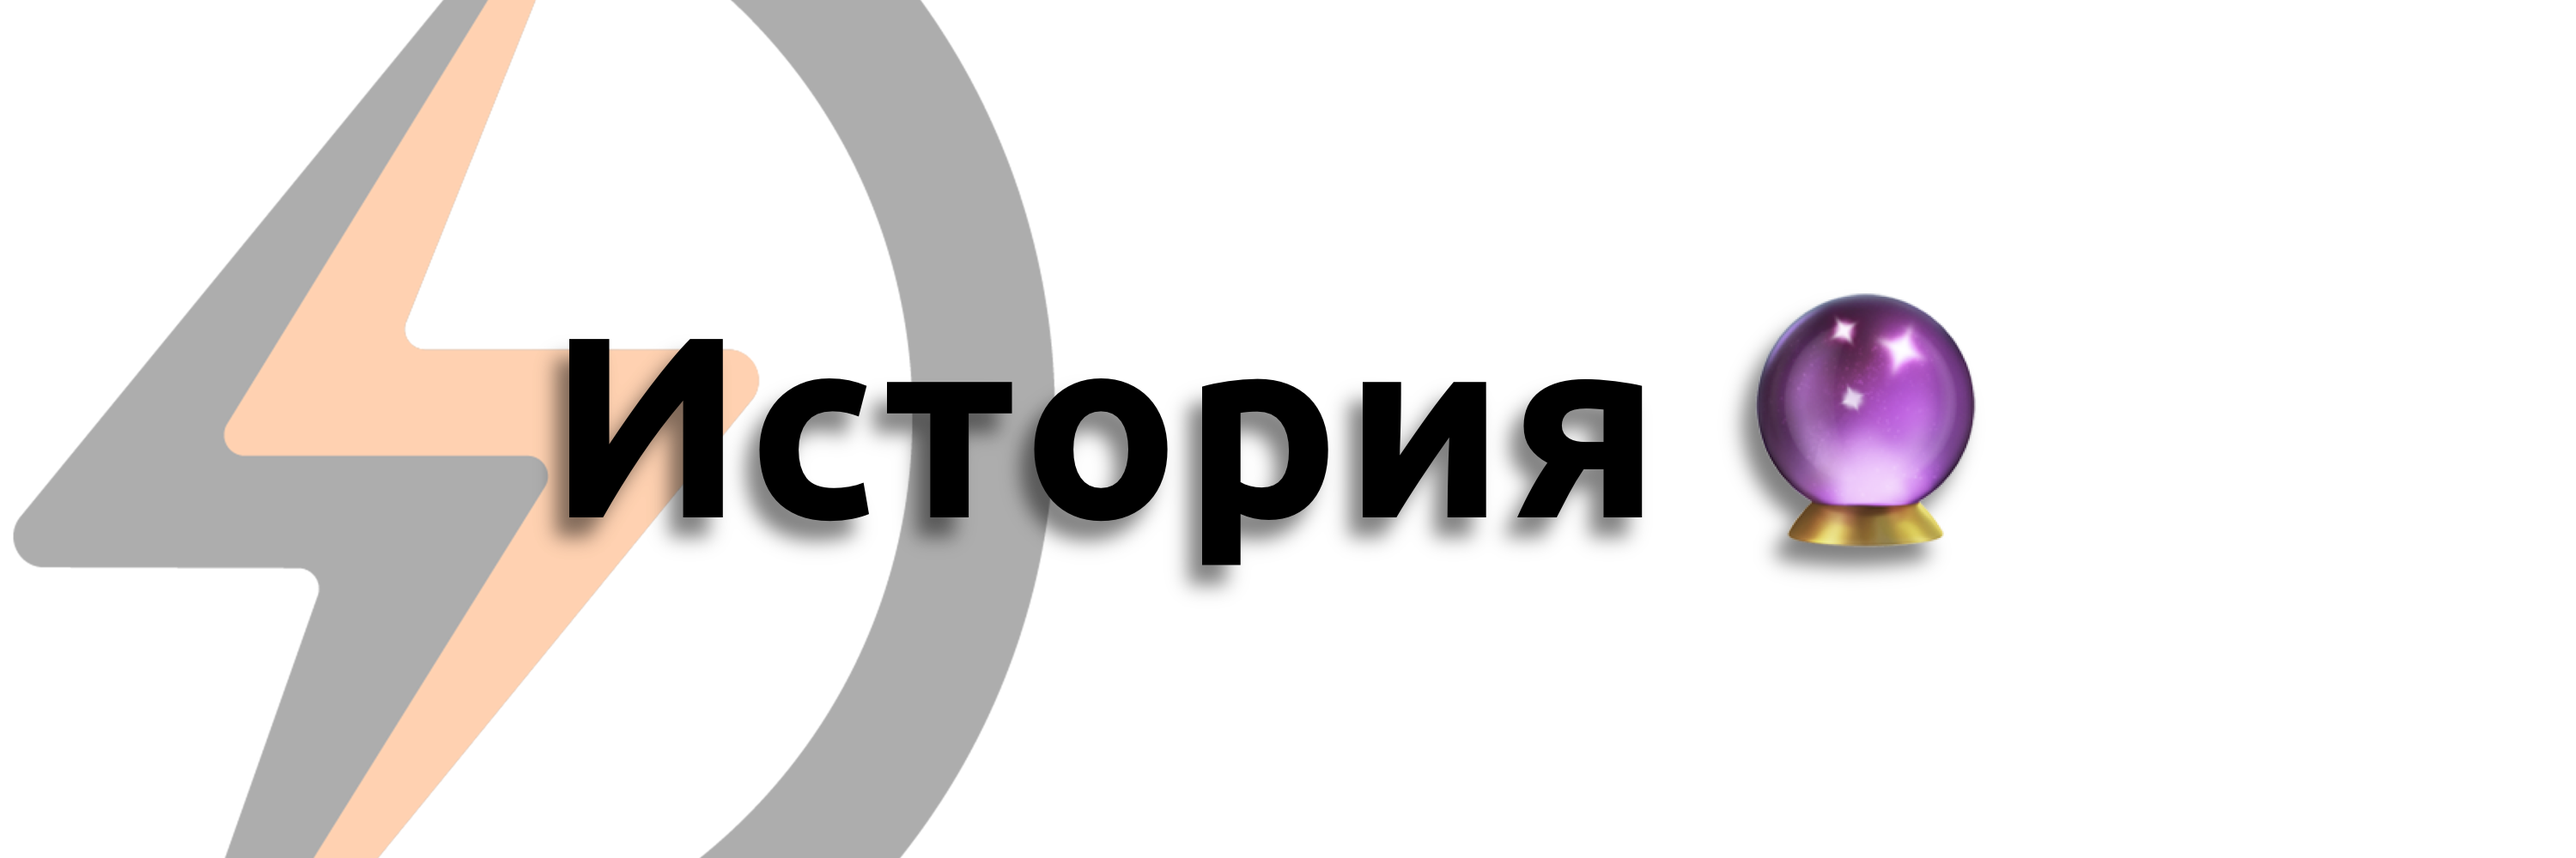
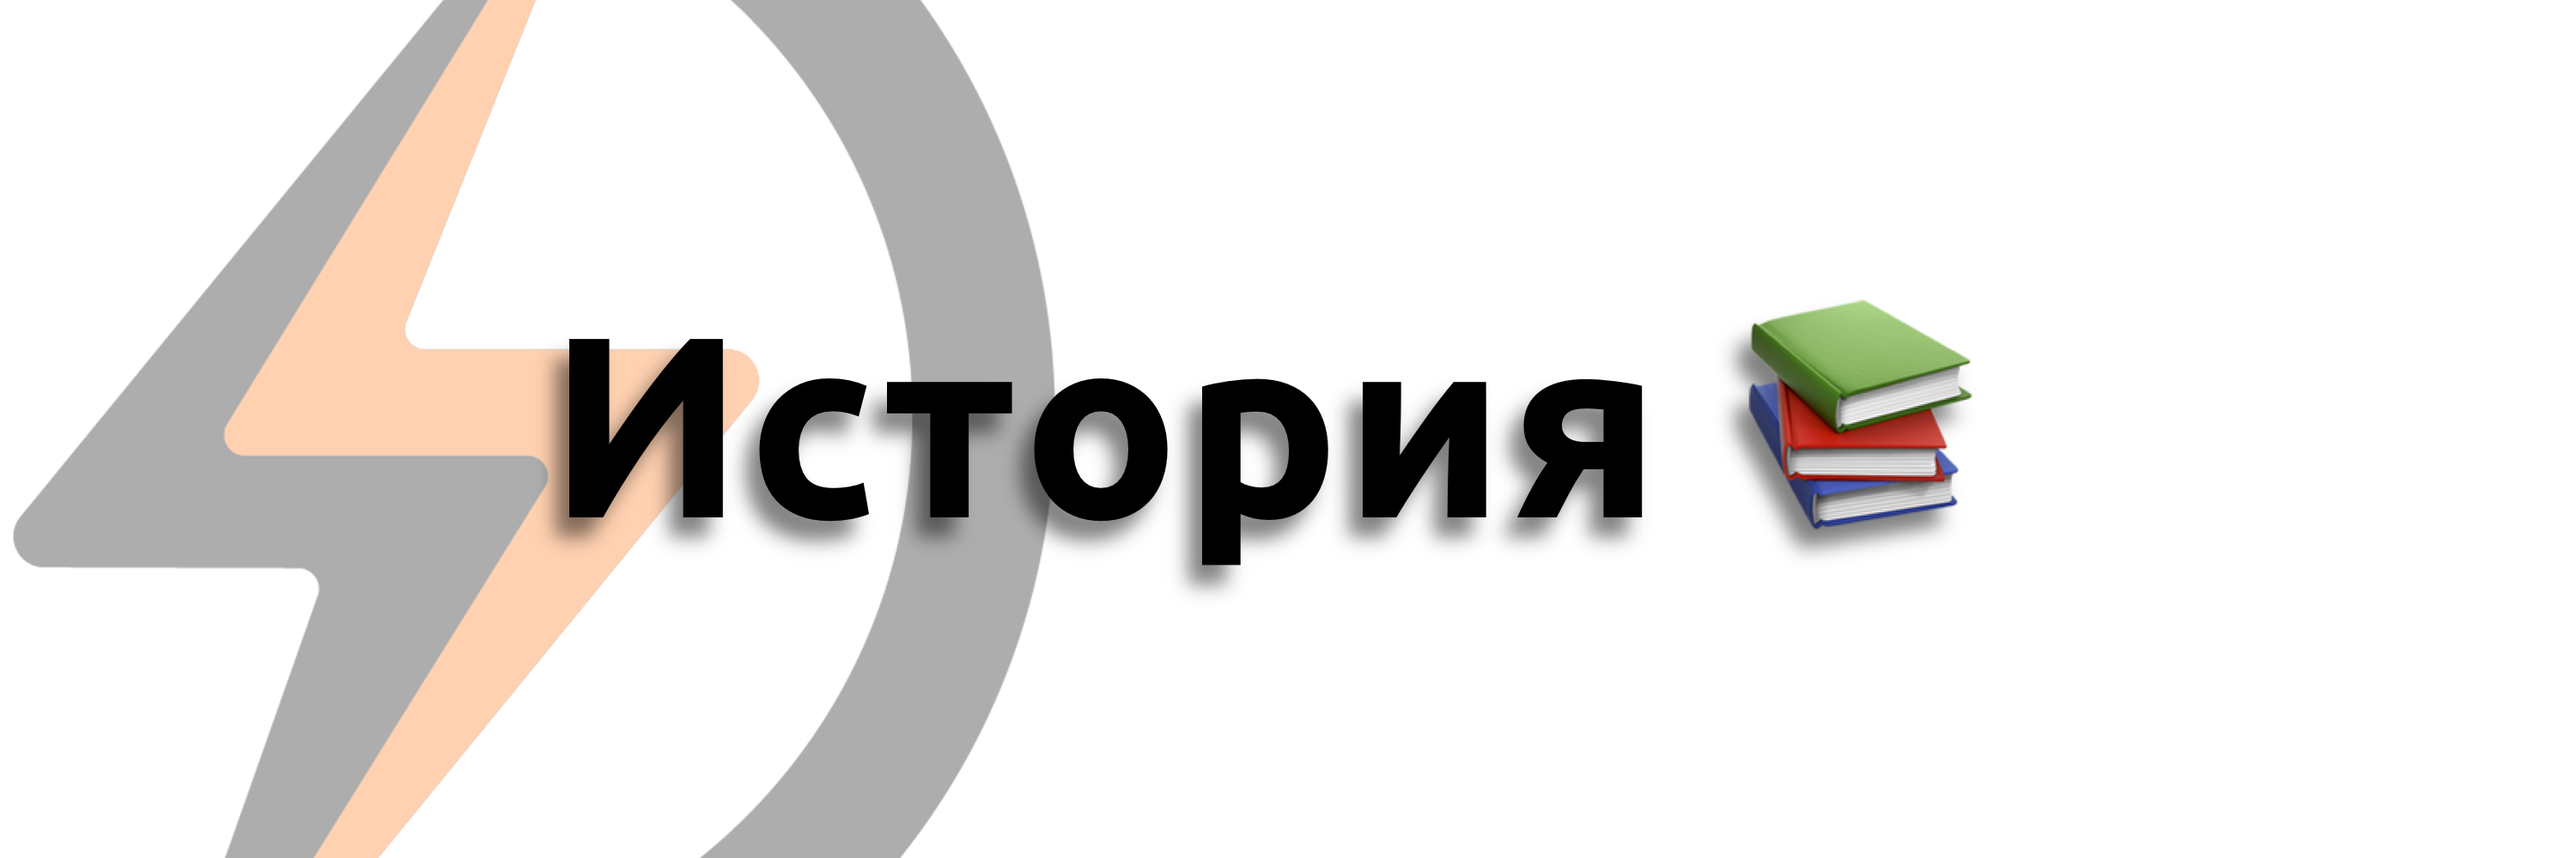
added en section covers

Changed region(s): [[0.651, 0.341, 0.775, 0.682]]

diff --git a/content.en/docs/Theory/economics/_index.md b/content.en/docs/Theory/economics/_index.md
@@ -1,6 +1,8 @@
 ---
 title: "Economics"
-h1: "Economics"
+h1: " "
+cover: /img/main-section/en/economics-dark.png
+coverDark: /img/main-section/en/economics-light.png
 bookCollapseSection: true
 url: economics
 weight: 1
@@ -16,21 +18,37 @@ A section devoted to the economic aspects of Bitcoin.
 The series will cover all the major economic, social and technological components of Bitcoin, as well as dispel the major misconceptions associated with it.
 
 1. [Gradually, Then Suddenly: Intro](/en/gradually-then-suddenly/intro)
+
 2. [Bitcoin Can’t Be Copied](/en/gradually-then-suddenly/bitcoin-cant-be-copied)
+
 3. [Bitcoin Is Not Too Volatile](/en/gradually-then-suddenly/bitcoin-is-not-too-volatile)
+
 4. [Bitcoin Does Not Waste Energy](/en/gradually-then-suddenly/bitcoin-does-not-waste-energy)
+
 5. [Bitcoin is Not Too Slow](/en/gradually-then-suddenly/bitcoin-is-not-too-slow)
+
 6. [Bitcoin Fixes This](/en/gradually-then-suddenly/bitcoin-fixes-this)
+
 7. [Bitcoin, Not Blockchain](/en/gradually-then-suddenly/bitcoin-not-blockchain)
+
 8. [Bitcoin is Not Backed by Nothing](/en/gradually-then-suddenly/bitcoin-is-not-backed-by-nothing)
+
 9. [Bitcoin is Not a Pyramid Scheme](/en/gradually-then-suddenly/bitcoin-is-not-a-pyramid-scheme)
+
 10. [Bitcoin Cannot be Banned](/en/gradually-then-suddenly/bitcoin-cannot-be-banned)
+
 11. [Bitcoin is Not for Criminals](/en/gradually-then-suddenly/bitcoin-is-not-for-criminals)
+
 12. [Bitcoin Obsoletes All Other Money](/en/gradually-then-suddenly/bitcoin-obsoletes-all-other-money)
+
 13. [Bitcoin is a Rally Cry](/en/gradually-then-suddenly/bitcoin-is-a-rally-cry)
+
 14. [Bitcoin is Common Sense](/en/gradually-then-suddenly/bitcoin-is-common-sense)
+
 15. [Bitcoin is Antifragile](/en/gradually-then-suddenly/bitcoin-is-antifragile)
+
 16. [Bitcoin is One for All](/en/gradually-then-suddenly/bitcoin-is-one-for-all)
+
 17. [Bitcoin is the Great Definancialization](/en/gradually-then-suddenly/bitcoin-is-the-great-definancialization)
 
 {{< /expand >}}
@@ -40,12 +58,19 @@ The series will cover all the major economic, social and technological component
 Welcome to the introduction to a series of seven articles, entitled “Discovering Bitcoin: A Brief Overview From Cavemen to the Lightning Network.”
 
 1. [Introduction](/en/discovering-bitcoin/intro)
+
 2. [Part 1: About Time](/en/discovering-bitcoin/about-time)
+
 3. [Part 2: About People](/en/discovering-bitcoin/about-people)
+
 4. [Part 3: Introducing Money](/en/discovering-bitcoin/introducing-money)
+
 5. [Part 4: A Wrong Turn (New Plan Needed)!](/en/discovering-bitcoin/a-wrong-turn-new-plan-needed)
+
 6. [Part 5: Digital Scarcity](/en/discovering-bitcoin/digital-scarcity)
+
 7. [Part 6: Digital Contracts](/en/discovering-bitcoin/digital-contracts)
+
 8. [Part 7: The Missing Pieces](/en/discovering-bitcoin/the-missing-pieces)
 
 {{< /expand >}}
@@ -53,17 +78,31 @@ Welcome to the introduction to a series of seven articles, entitled “Discoveri
 ## Articles
 
 - [Critics Claim Bitcoin Is a Threat to the Environment. They're Wrong](/en/bitcoin-is-not-harmful-for-the-environment)
+
 - [The Seven Network Effects of Bitcoin](/en/seven-network-effects-of-bitcoin)
+
 - [Masters and Slaves of Money](/en/masters-and-slaves-of-money)
+
 - [Structural Adjustment: How The IMF And World Bank Repress Poor Countries And Funnel Their Resources To Rich Ones](/en/structural-adjustment)
+
 - [What Most People Get Wrong About Deflation](/en/in-defense-of-deflation)
+
 - [Comparison of Monetary Standards](/en/comparison-of-monetary-standards)
+
 - [Petrodollar Negative Effects](/en/petrodollar-negative-effects)
+
 - [Shelling Out: The Origins of Money](/en/shelling-out)
+
 - [Bitcoin and the Rhythms of History](/en/bitcoin-rhythms-of-history)
+
 - [Bitcoin & the HOPF Cycle of the Internet](/en/bitcoin-and-the-hopf-cycle-of-the-internet)
+
 - [Money, blockchains, and social scalability](/en/money-blockchains-and-social-scalability)
+
 - [Что такое деньги](/chto-takoe-dengi)
+
 - [Only The Strong Survive](/en/only-the-strong-survive)
+
 - [Dollar-Cost Averaging](/en/dollar-cost-averaging)
+
 - [Jevons Paradox: Contrary Truth](/en/jevons-paradox)

diff --git a/content.en/docs/Theory/history/_index.md b/content.en/docs/Theory/history/_index.md
@@ -1,5 +1,8 @@
 ---
 title: "History"
+h1: " "
+cover: /img/main-section/en/history-dark.png
+coverDark: /img/main-section/en/history-light.png
 bookCollapseSection: true
 url: history
 weight: 5
@@ -16,10 +19,15 @@ A subsection devoted to historical events and the backstory of Bitcoin.
 This series tells the story of the crucial developments that took place before Bitcoin and laid the foundation for the emergence of censorship-resistant decentralized money that is beyond the control of states or any other centralized authority.
 
 1. [Intro: The Day Cryptography Changed Forever](/en/gf/genesis-intro)
+
 2. [Part I: How David Chaum’s eCash Spawned a Cypherpunk Dream](/en/gf/genesis-1)
+
 3. [Part II: Hashcash or How Adam Back Designed Bitcoin’s Motor Block](/en/gf/genesis-2)
+
 4. [Part III: If Bitcoin Had a First Draft, Wei Dai’s B-Money Was It](/en/gf/genesis-3)
+
 5. [Part IV: With Bit Gold, Szabo Was Inches Away From Inventing Bitcoin](/en/gf/genesis-4)
+
 6. [Part V: How Hal Finney’s Quest For Digital Cash Led To RPOW (And More)](/en/gf/genesis-5)
 
 {{< /expand >}}
@@ -27,13 +35,6 @@ This series tells the story of the crucial developments that took place before B
 ## Articles
 
 1. [Hal Finney — The Life And Death Of A Cypherpunk Legend](/en/hal-finney)
+
 2. [The Bitcoin Reformation](/en/bitcoin-reformation)
 
-
-# Календарь
-
-Помимо статей погрузиться в историю Биткоина вам поможет подготовленный нами Биткоин-календарь. Для удобства этот календарь раздается в самом распространенном формате, но вы всегда можете импортировать его, чтобы использовать в любом другом приложении.
-
-Предложить пропущенные мною или новые события можно в разделе сайта "[обратная связь](/feedback)".
-
-<iframe src="https://calendar.google.com/calendar/embed?height=600&wkst=2&bgcolor=%23ffffff&ctz=Europe%2FMoscow&showNav=1&showCalendars=0&showTabs=1&src=OTAxYmU1NjNjZmE4ZGQwYWIyM2IyZDNlMGIwNjJhMmU3ZDU0ZDg3MGI0ZjM0OTMzMDgyMTU0OGRjMmU4ZjMzNUBncm91cC5jYWxlbmRhci5nb29nbGUuY29t&color=%23F09300" style="border:solid 1px #777" width="600" height="600" frameborder="0" scrolling="no"></iframe> 

diff --git a/content.en/docs/Theory/security/_index.md b/content.en/docs/Theory/security/_index.md
@@ -1,5 +1,8 @@
 ---
 title: "Security"
+h1: " "
+cover: /img/main-section/en/security-dark.png
+coverDark: /img/main-section/en/security-light.png
 bookCollapseSection: true
 bookFlatSection: false
 url: security
@@ -9,10 +12,17 @@ weight: 2
 A section covering the best practices for securing your coins when interacting with Bitcoin.
 
 1. [Bitcoin Wallets: How, Why and When to Hold Your Own Private Keys](/en/how-to-hold-private-keys)
+
 2. [What is a bitcoin seed phrase and how does it work?](/en/seed/)
+
 3. [Ultimate guide to storing your bitcoin seed phrase backups](/en/seed-security)
+
 4. [Is your passphrase strong enough?](/en/passphrase)
+
 5. [What is multisig?](/en/what-is-multisig)
+
 6. [The best Bitcoin hardware wallets](/en/hwws/)
+
 7. [Multisig Series Part I: Why Multisig?](/en/multisig-1)
+
 8. [Multisig Series Part II: Single Keys are the Foundation of Multisignature](/en/multisig-2)

diff --git a/content.en/docs/Theory/lightning/_index.md b/content.en/docs/Theory/lightning/_index.md
@@ -1,5 +1,8 @@
 ---
 title: "Lightning"
+h1: " "
+cover: /img/main-section/en/lightning-dark.png
+coverDark: /img/main-section/en/lightning-light.png
 bookCollapseSection: true
 url: lightning
 weight: 8
@@ -7,10 +10,16 @@ weight: 8
 
 A subsection that tells you what the Lightning Network is and what its advantages are.
 
-1. [Что такое сеть Лайтнинг?](/chto-takoe-laitning)
+1. [What is Lightning Network?](/en/what-is-lightning-network)
+
 2. [Lightning Wallets](/en/lightning-wallets)
+
 2. [How Lightning Address Works](/en/how-lightning-address-works)
+
 3. [Current State of Lightning Network Privacy](/en/lightning-network-privacy)
+
 4. [OMG, LN nodes are running on Amazon!](/en/is-lightning-centralized)
+
 5. [Lightning Network Explained](/en/lightning-network-explained)
+
 6. [Solutions to inbound liquidity problem in Lightning Network](/en/inbound-liquidity-problem)

diff --git a/content.en/docs/Theory/privacy/_index.md b/content.en/docs/Theory/privacy/_index.md
@@ -1,5 +1,8 @@
 ---
 title: "Privacy"
+h1: " "
+cover: /img/main-section/en/privacy-dark.png
+coverDark: /img/main-section/en/privacy-light.png
 bookCollapseSection: true
 url: privacy
 weight: 3
@@ -8,9 +11,15 @@ weight: 3
 A section covering the best approaches to ensuring your own privacy when interacting with Bitcoin and the importance of privacy in general.
 
 1. [Bitcoin Privacy: Best Practices](/en/privacy/best-practices)
+
 2. [no-KYC only. Avoid the creep](/en/privacy/no-kyc)
+
 4. [Bitcoin Privacy](/en/wiki-bitcoin-privacy)
+
 5. [As Governments Seek Encryption Backdoors, Bitcoin Becomes Critical](/en/bitcoin-becomes-critical)
+
 6. [BIP47, the ugly duckling](/en/bip47-the-ugly-duckling)
+
 7. [Understanding Bitcoin Privacy with OXT](/en/privacy/oxt)
+
 8. [CoinJoin Overview](/en/privacy/coinjoin)

diff --git a/content.en/docs/Theory/future/_index.md b/content.en/docs/Theory/future/_index.md
@@ -1,5 +1,8 @@
 ---
 title: "Future"
+h1: " "
+cover: /img/main-section/en/future-dark.png
+coverDark: /img/main-section/en/future-light.png
 bookCollapseSection: true
 url: future
 weight: 7
@@ -8,6 +11,9 @@ weight: 7
 A subsection collecting materials devoted to speculation on what Bitcoin might look like in the future, how it might deal with upcoming threats, and how much its presence might change the lives of people on planet Earth and beyond.
 
 1. [Bitcoin Astronomy](/en/ba/) (trilogy)
+
 2. [Hey Bitcoin, Slow Down!](/en/hey-bitcoin-slow-down)
+
 3. [Can Bitcoin Survive An Apocalypse?](/en/apocalypse)
+
 4. [Bitcoin and Ocean Thermal Energy](/en/bitcoin-and-oceans)

diff --git a/content.en/docs/Practice/lightning/_index.md b/content.en/docs/Practice/lightning/_index.md
@@ -2,8 +2,8 @@
 title: "Lightning"
 type: docs
 h1: " "
-cover: /img/main-section/ru/lightning-light.png
-coverDark: /img/main-section/ru/lightning.png
+cover: /img/main-section/en/lightning-dark.png
+coverDark: /img/main-section/en/lightning-light.png
 bookCollapseSection: true
 url: practice/lightning
 weight: 6

diff --git a/content.en/docs/Rabbithole/_index.md b/content.en/docs/Rabbithole/_index.md
@@ -1,9 +1,11 @@
 ---
 title: "Rabbithole"
-bookCollapseSection: true
-url: rabbithole
 type: docs
-cover: /img/main-section/rabbithole-en.png
+h1: " "
+cover: /img/main-section/en/rabbithole-dark.png
+coverDark: /img/main-section/en/rabbithole-light.png
+url: rabbithole
+bookCollapseSection: true
 weight: 4
 ---
 

diff --git a/content.en/docs/Practice/interact/_index.md b/content.en/docs/Practice/interact/_index.md
@@ -2,8 +2,8 @@
 title: "Interact"
 type: docs
 h1: " "
-cover: /img/main-section/ru/interact-light-ru.png
-coverDark: /img/main-section/ru/interact.png
+cover: /img/main-section/en/interact-dark.png
+coverDark: /img/main-section/en/interact-light.png
 bookCollapseSection: true
 url: practice/interact
 weight: 3

diff --git a/content.en/docs/Practice/privacy/_index.md b/content.en/docs/Practice/privacy/_index.md
@@ -2,8 +2,8 @@
 title: "Privacy"
 type: docs
 h1: " "
-cover: /img/main-section/ru/privacy-light.png
-coverDark: /img/main-section/ru/privacy.png
+cover: /img/main-section/en/privacy-dark.png
+coverDark: /img/main-section/en/privacy-light.png
 bookHidden: false
 bookCollapseSection: true
 url: practice-privacy

diff --git a/content.en/docs/Practice/hodl/_index.md b/content.en/docs/Practice/hodl/_index.md
@@ -2,8 +2,8 @@
 title: "Hodl"
 type: docs
 h1: " "
-cover: /img/main-section/ru/hodl-light.png
-coverDark: /img/main-section/ru/hodl.png
+cover: /img/main-section/en/hodl-dark.png
+coverDark: /img/main-section/en/hodl-light.png
 bookCollapseSection: true
 url: practice/hodl
 weight: 2

diff --git a/content.en/docs/Practice/buy/_index.md b/content.en/docs/Practice/buy/_index.md
@@ -2,8 +2,8 @@
 title: "Buy"
 type: docs
 h1: " "
-cover: /img/main-section/ru/buy-light.png
-coverDark: /img/main-section/ru/buy.png
+cover: /img/main-section/en/buy-dark.png
+coverDark: /img/main-section/en/buy-light.png
 bookCollapseSection: true
 weight: 1
 url: practice/buy
